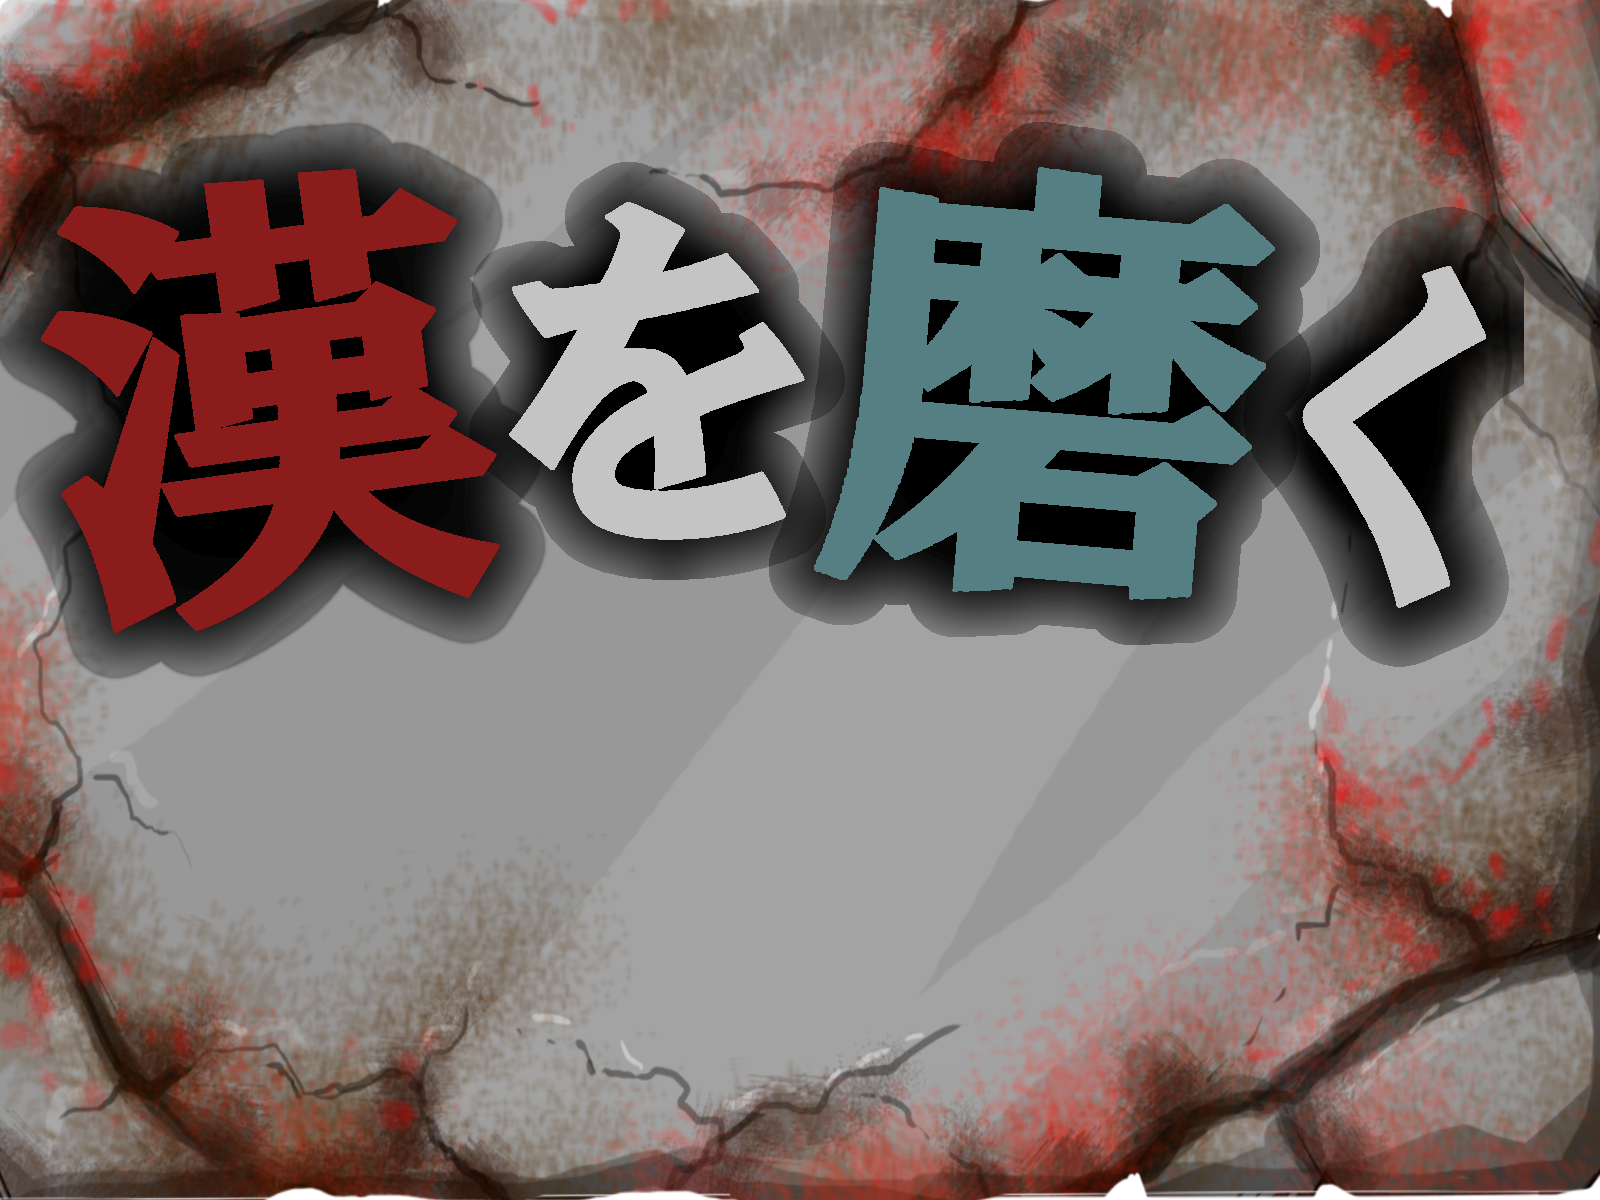
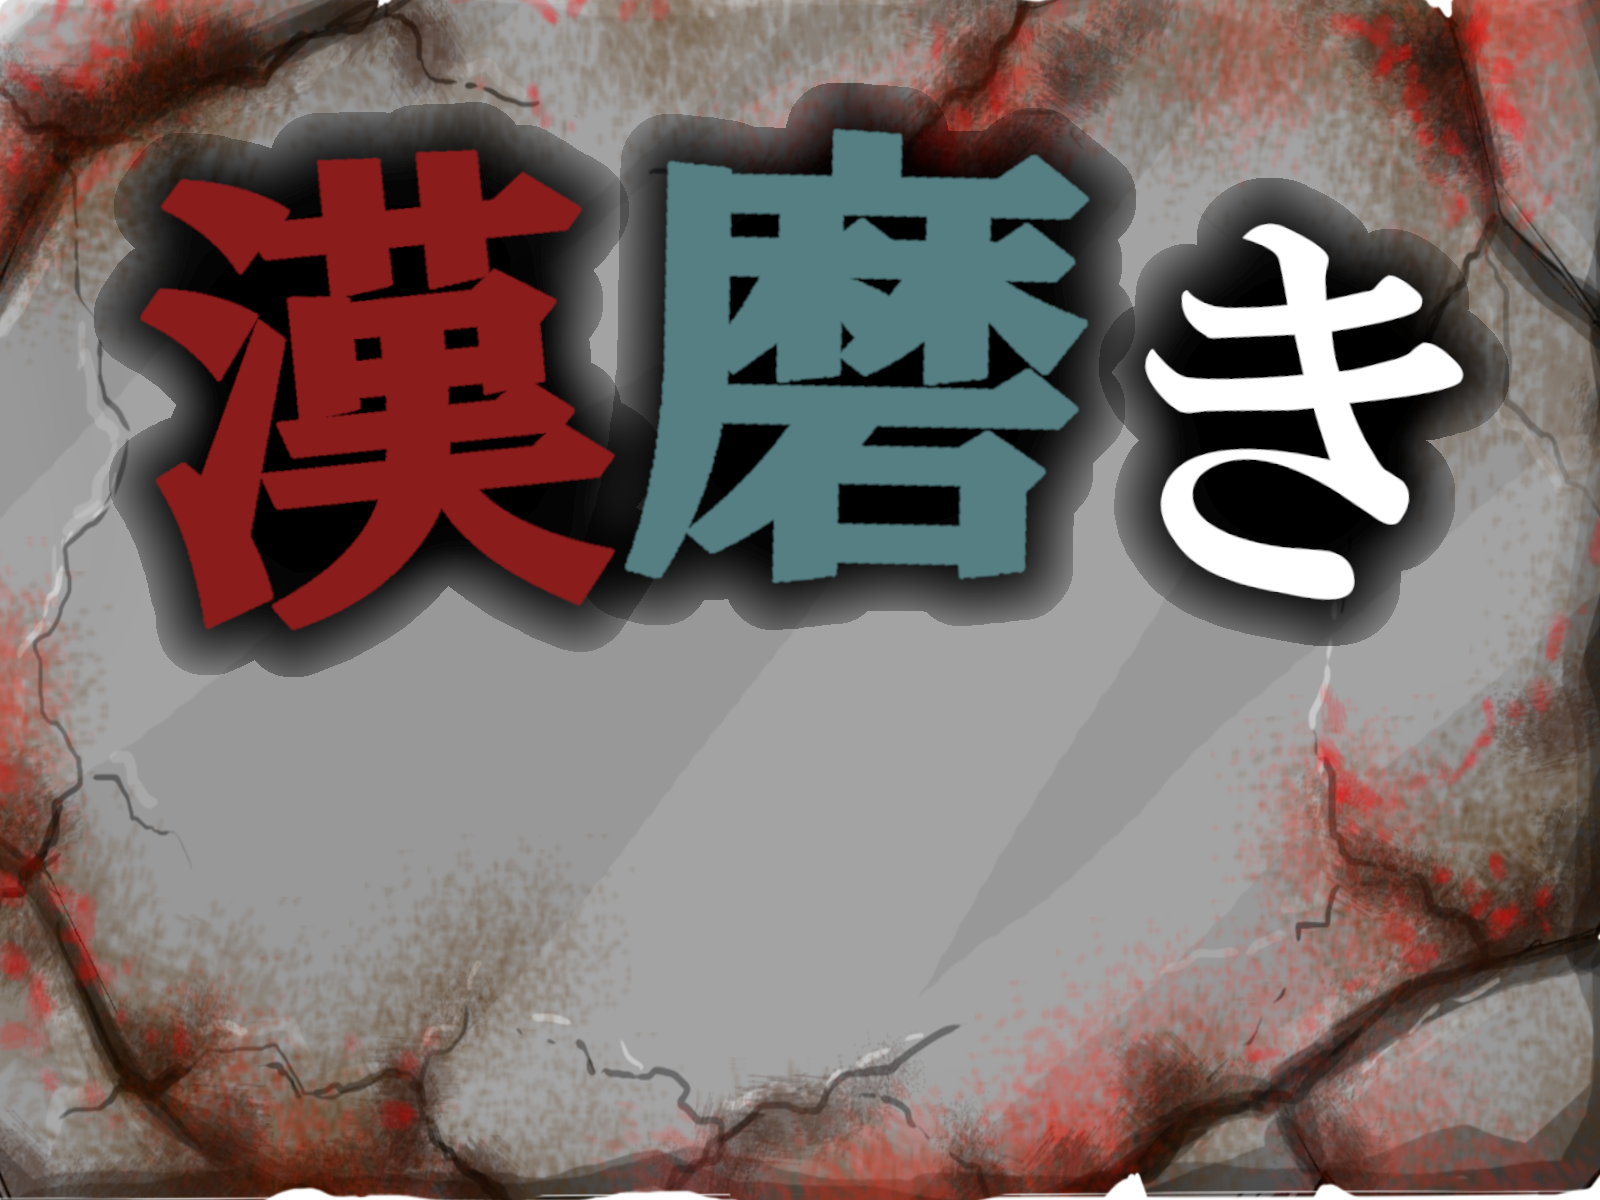
apply design

Changed region(s): [[0.0, 0.0617, 0.9688, 0.5858]]

diff --git a/src/scene/EndingScene.ts b/src/scene/EndingScene.ts
@@ -1,7 +1,16 @@
 export class EndingScene extends Phaser.Scene {
   private kanji?: string;
   private ids?: string;
-    constructor() {
+
+  preload() {
+    // 画像をロードする
+    this.load.image('background_ending', 'assets/background_ending.png');
+    this.load.image('button_restart', 'assets/button_restart.png');
+    this.load.image('button_share', 'assets/button_share.png');
+    this.load.image('frame_ending', 'assets/frame_ending.png');
+  }
+
+  constructor() {
     super('ending');
   }
 
@@ -20,28 +29,46 @@ export class EndingScene extends Phaser.Scene {
     const { width, height } = this.game.canvas;
     let kanji:string = this.kanji!
     let ids:string = this.ids!
+    const background_ending =this.add.image(width / 2, height / 2, 'background_ending').setOrigin(0.5);
+    // 背景画像の大きさを合わせる
+    background_ending.displayWidth = width;
+    background_ending.displayHeight = height;
+    const frame_ending =this.add.image(width / 2, 200, 'frame_ending').setOrigin(0.5);
+    // 背景画像の大きさを合わせる
+    frame_ending.displayWidth = 600;
+    frame_ending.displayHeight = 350;
+    //ボタンのサイズを設定
+    const buttonWidth = 200;
+    const buttonHeight = 100;
     
-    this.add.text(width/2,height/2-170,kanji,{fontSize:100,fontFamily:"meiryo UI"},).setOrigin(0.5);
+    this.add.text(width/2,height/2-190,kanji,{fontSize:100,fontFamily:"meiryo UI"},).setOrigin(0.5);
 
     ids = ids.replace(/&\w{3}-\w{4}/g,"★");
-    this.add.text(width/2,height/2-70,ids,{fontSize:45,fontFamily:"meiryo UI"},).setOrigin(0.5)
+    this.add.text(width/2,height/2-90,ids,{fontSize:45,fontFamily:"meiryo UI"},).setOrigin(0.5)
     let score: number = ids.length;
 
-    this.add.text(width/3,height/2+20,"Score:",{fontSize:35,fontFamily:"meiryo UI"}).setOrigin(0.5)
-    this.add.text(width/2,height/2+20,String(score),{fontSize:35,fontFamily:"meiryo UI"}).setOrigin(0.5)
-    const button= this.add.text(width/2, height/2+120, 'RETRY',{fontSize:35,fontFamily:"meiryo UI"}).setOrigin(0.5);
-    button.setInteractive({
+    this.add.text(width/3,height/2 ,"Score:",{fontSize:35,fontFamily:"meiryo UI"}).setOrigin(0.5)
+    this.add.text(width/2,height/2 ,String(score),{fontSize:35,fontFamily:"meiryo UI"}).setOrigin(0.5)
+
+    //リスタートボタンを追加
+    const button_restart= this.add.image(width / 2, height / 2 + 130, 'button_restart').setOrigin(0.5);
+    //リスタートボタンのサイズを設定
+    button_restart.setDisplaySize(buttonWidth, buttonHeight);
+    button_restart.setInteractive({
       useHandCursor: true
     });
-    button.on('pointerdown', () => {
+    button_restart.on('pointerdown', () => {
       this.scene.start('title');  // TitleSceneに遷移
     });
-    const share= this.add.text(width/2, height/2+200, 'Share Result',{fontSize:30}).setOrigin(0.5);
-    share.setInteractive({
+    //シェアボタンを追加
+    const button_share= this.add.image(width / 2, height / 2 + 230, 'button_share').setOrigin(0.5);
+    //シェアボタンのサイズを設定
+    button_share.setDisplaySize(buttonWidth, buttonHeight);
+    button_share.setInteractive({
       useHandCursor: true
     })
     // 結果を共有するページに遷移
-    share.on('pointerdown',() => {
+    button_share.on('pointerdown',() => {
 
     })
   }

diff --git a/src/scene/TitleScene.ts b/src/scene/TitleScene.ts
@@ -3,22 +3,37 @@ export class TitleScene extends Phaser.Scene {
     super('title');
   }
 
+  preload() {
+    // 画像をロードする
+    this.load.image('background_start', 'assets/background_start.png');
+    this.load.image('button_play', 'assets/button_play.png');
+  }
+
   create() {
     const { width, height } = this.game.canvas;
+
+    // 背景を追加
+    const background_start =this.add.image(width / 2, height / 2, 'background_start').setOrigin(0.5);
+    // 背景画像の大きさを合わせる
+    background_start.displayWidth = width;
+    background_start.displayHeight = height;
     
-    this.add.text(width/2,height/2-200,"漢磨き",{fontSize:120}).setOrigin(0.5);
-    this.add.image(width/2, height/2, '').setOrigin(0.5);
-    const button = this.add.text(width/2, height/2, 'Click To Start',{fontSize:75,color:"#ff0000"},).setOrigin(0.5);
+    const button_play = this.add.image(width / 2, height / 1.5, 'button_play').setOrigin(0.5);
+    // ボタンのサイズを調整する
+    const buttonWidth = 200;
+    const buttonHeight = 100;
+    button_play.setDisplaySize(buttonWidth, buttonHeight);
    
     // buttonをクリックできるように設定
-    button.setInteractive({
+    button_play.setInteractive({
       useHandCursor: true  // マウスオーバーでカーソルが指マークになる
     });
 
     // buttonをクリックしたらMainSceneに遷移
-    button.on('pointerdown', () => {
+    button_play.on('pointerdown', () => {
       this.scene.start('main', { timelineID: 'start' })});
 
+    /*
     const rule = this.add.text(width/2,height/2+120,"How To Play",{fontSize:35}).setOrigin(0.5)
     // ruleをクリックできるように設定
     rule.setInteractive({
@@ -29,6 +44,7 @@ export class TitleScene extends Phaser.Scene {
     rule.on('pointerdown',() => {
 
     });
+    */
     
     
   }
